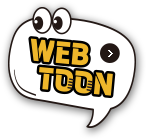
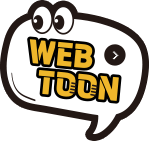
[SM240716_공모전-팝업] 메인 웹툰 버튼 수정 및 참여형 웹툰 버튼 추가

diff --git a/resource/assets/web/child/main.html b/resource/assets/web/child/main.html
@@ -2801,7 +2801,9 @@ function fnPassChk(){
 					 </span></p>
 					   <div class="btn_mychar"><a href="/child/character/view.do" class="btn_my_arrow">나의 캐릭터<br>확인</a></div>
 					 </div>
-
+           <button type="button" class="btn_webtoon-join">
+            <img src="/resource/assets/web/child/images/webtoon/icon_webtoon_join.png" alt="참여형 웹툰">
+          </button>
 						<button type="button" class="btn_webtoon" name="btnWebtoon" data-gtag-evt="click" data-gtag-category="웹툰 메인" data-gtag-label="웹툰 보기">
 						   <img src="/resource/assets/web/child/images/webtoon/icon_webtoon02.png" alt="웹툰">
 						</button>
@@ -2835,8 +2837,11 @@ function fnPassChk(){
 					<!-- 캐릭터 선택 전 -->
 					<div class="my_box02">
 						<div class="my_step"><p>선택된 캐릭터가 없습니다.</p></div>
-						 <div class="btn_char"><a href="/child/character/main.do" class="btn_arrow">캐릭터 선택 바로가기</a></div>
-						   <button type="button" class="btn_webtoon" name="btnWebtoon" data-gtag-evt="click" data-gtag-category="웹툰 메인" data-gtag-label="웹툰 보기">
+            <div class="btn_char"><a href="/child/character/main.do" class="btn_arrow">캐릭터 선택 바로가기</a></div>
+            <button type="button" class="btn_webtoon-join">
+              <img src="/resource/assets/web/child/images/webtoon/icon_webtoon_join.png" alt="참여형 웹툰">
+            </button>
+            <button type="button" class="btn_webtoon" name="btnWebtoon" data-gtag-evt="click" data-gtag-category="웹툰 메인" data-gtag-label="웹툰 보기">
 						   <img src="/resource/assets/web/child/images/webtoon/icon_webtoon02.png" alt="웹툰">
 						</button>
 						<div class="my_char">

diff --git a/resource/assets/web/child/css/sub.css b/resource/assets/web/child/css/sub.css
@@ -1489,7 +1489,8 @@
 /* .con_main .main_top .btn_webtoon { display: flex; align-items: center; white-space: nowrap; justify-content: center; font-size: 12px; padding: 0 26.5px 0 12.5px; background: rgba(0, 0, 0, .3) url(../images/main/icon_arrow00.png) calc(100% - 12.5px) center no-repeat; background-size: 4.04px 6.3px; border-radius: 16px; color: #ffffff; font-family: 'NanumSquareL'; position: absolute; height: 32px; bottom: 10px; right: 10px;z-index: 1; }
 .con_main .main_top .btn_webtoon b { font-family: 'NanumSquareB'; margin-right: 2px; }
 .con_main .main_top .btn_webtoon img { width: 22px; margin-right: 7.5px; } */
-.con_main .main_top .btn_webtoon {position: absolute;top: 88px;right: 15px;z-index: 1; width: 73px;}
+.con_main .main_top .btn_webtoon {position: absolute;top: 117px;right: 10px;z-index: 1; width: 74px;}
+.con_main .main_top .btn_webtoon-join {position: absolute;top: 84px;right: 6px;z-index: 1; width: 86px;}
 
 
 /* 안드로이드 자동 업데이트 공지 팝업*/
